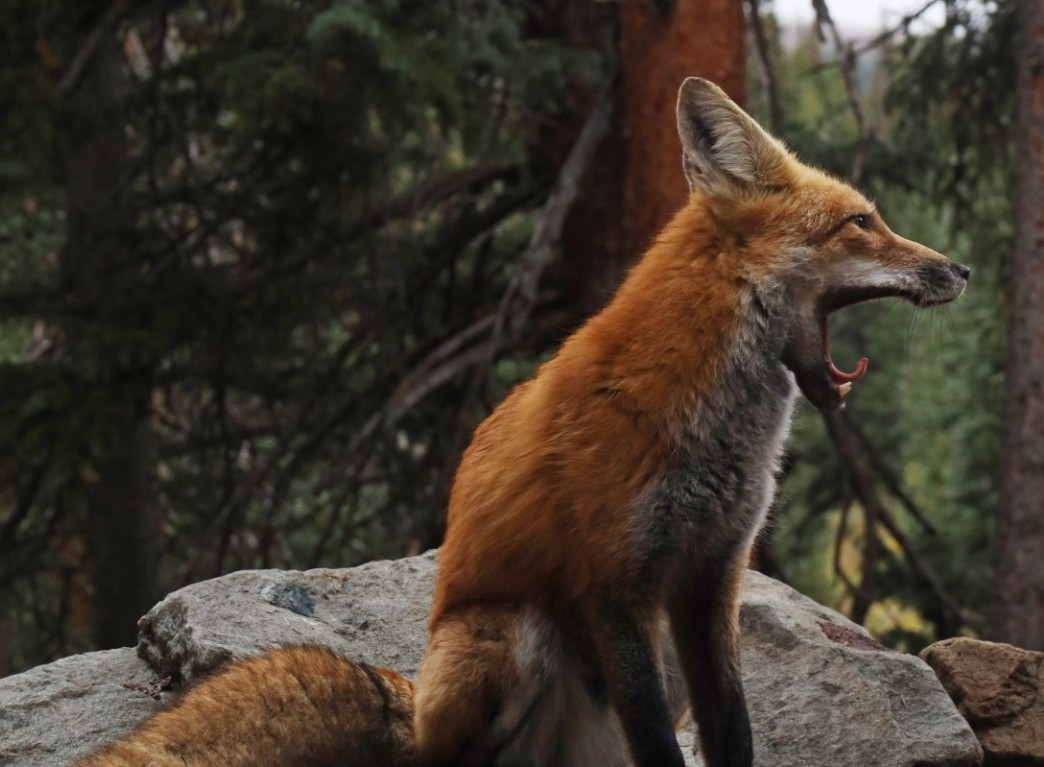
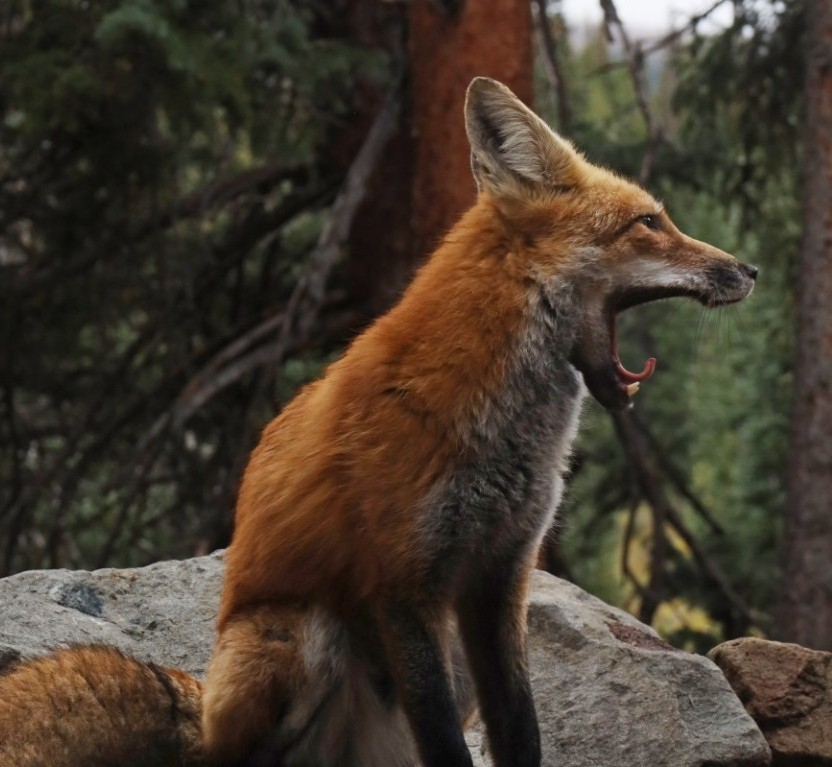
u

diff --git a/js/photography-page.js b/js/photography-page.js
@@ -254,7 +254,7 @@
     if (stem === 'model') return '50% 85%';       // hat + hair at bottom
     if (stem === 'the rocket') return '50% 0%';   // people at top
     if (stem === 'derick') return '50% 20%';      // head near top
-    if (stem === 'fox2') return '50% 30%';        // fox head near top
+    if (stem === 'fox2') return '50% 37%';        // fox head near top
     if (stem === 'lincoln') return '50% 80%';        // feet near bottom
     if (stem === 'derick & tori') return '50% 15%';  // Heads near top
     if (stem === 'zeboy!') return '50% 45%';  // Center

diff --git a/js/photos.js b/js/photos.js
@@ -1495,7 +1495,7 @@ const PORTFOLIO_PHOTOS = [
   },
 {
     "file": "Fox3.jpg",
-    "title": "Sun Kitty",
+    "title": "Bliss",
     "collection": "Nature",
     "year": "",
     "location": "",
@@ -1506,7 +1506,7 @@ const PORTFOLIO_PHOTOS = [
   },
 {
     "file": "Fox4.jpg",
-    "title": "Distance Kitty",
+    "title": "Distance",
     "collection": "Nature",
     "year": "",
     "location": "",
